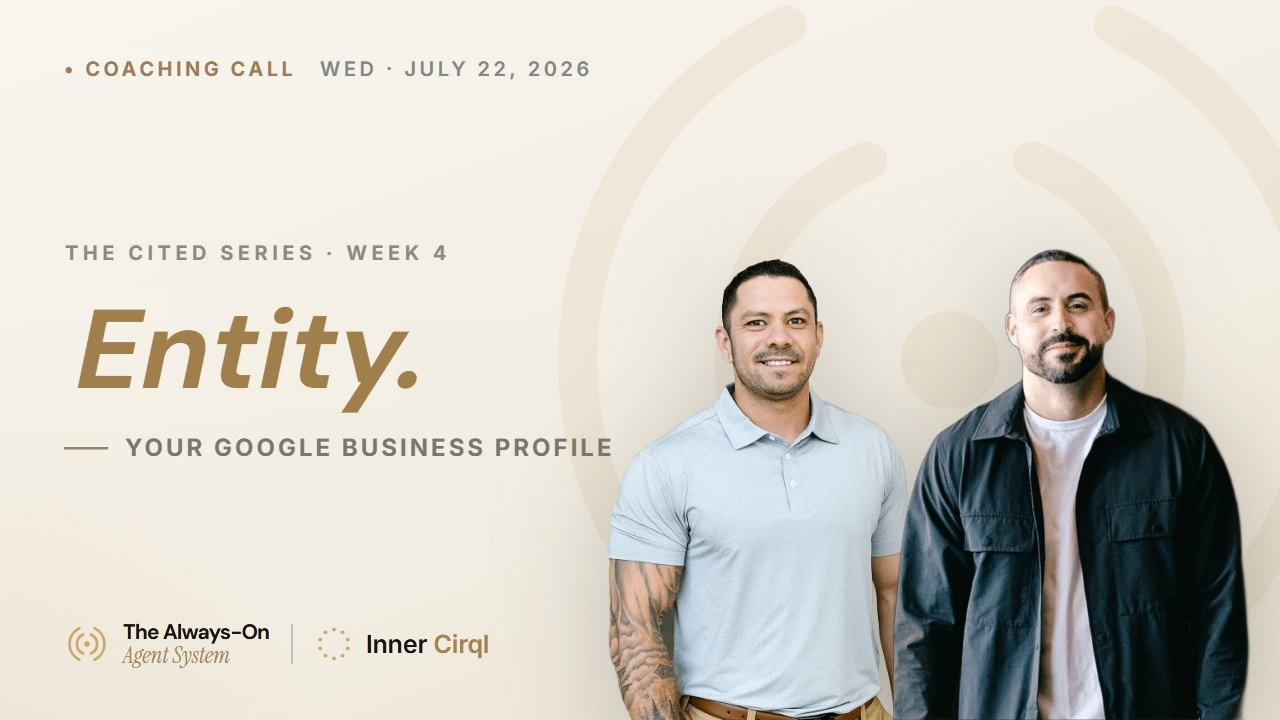
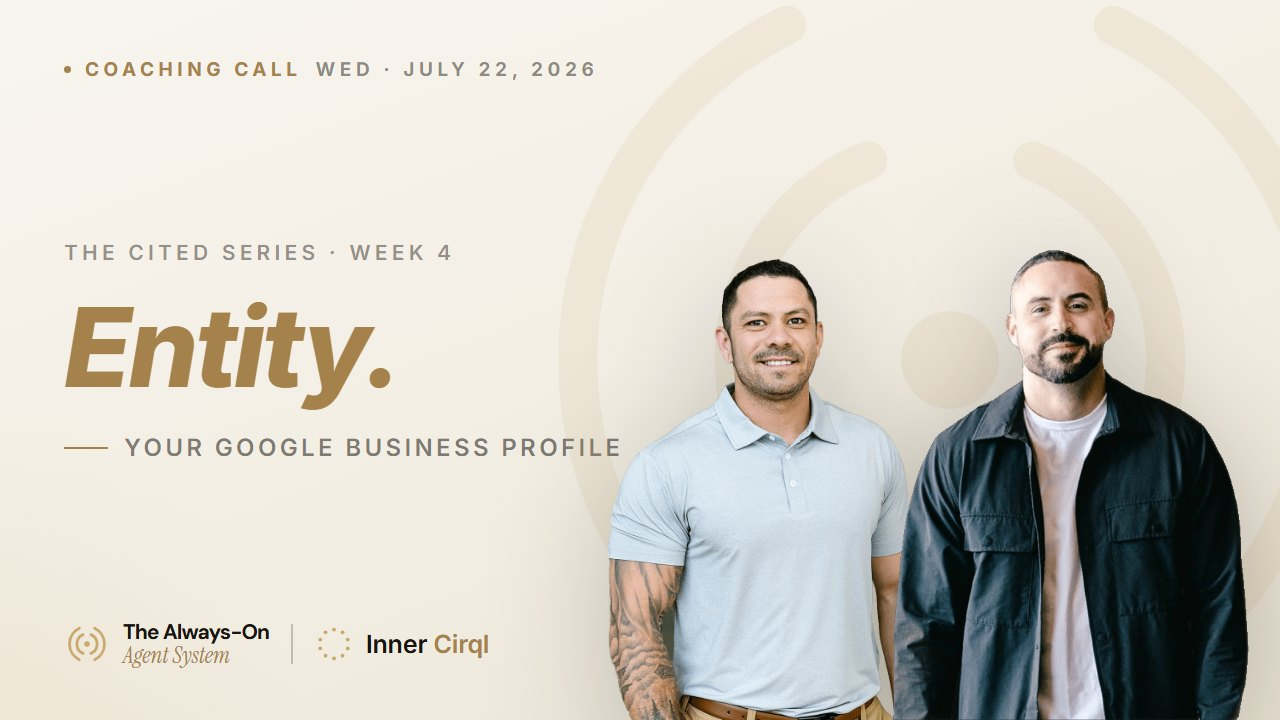
July 22: regenerate thumbnail with correct typography (Inter italic); bump to ?v=6

diff --git a/training/index.html b/training/index.html
@@ -240,7 +240,7 @@
 
       <div class="vid">
         <button class="vid-frame" type="button" data-embed="https://player.vimeo.com/video/1217829570?h=425775a936&amp;title=0&amp;byline=0&amp;portrait=0&amp;badge=0&amp;autopause=0&amp;player_id=0&amp;app_id=58479" aria-label="Play: July 22 Coaching Call">
-          <img class="poster" src="/assets/thumbs/july-22-call.jpg?v=5" alt="July 22 Coaching Call" loading="lazy">
+          <img class="poster" src="/assets/thumbs/july-22-call.jpg?v=6" alt="July 22 Coaching Call" loading="lazy">
           <span class="vid-play"><span><svg viewBox="0 0 24 24" aria-hidden="true"><path d="M8 5.5v13l11-6.5z"/></svg></span></span>
         </button>
         <div class="vid-body">
